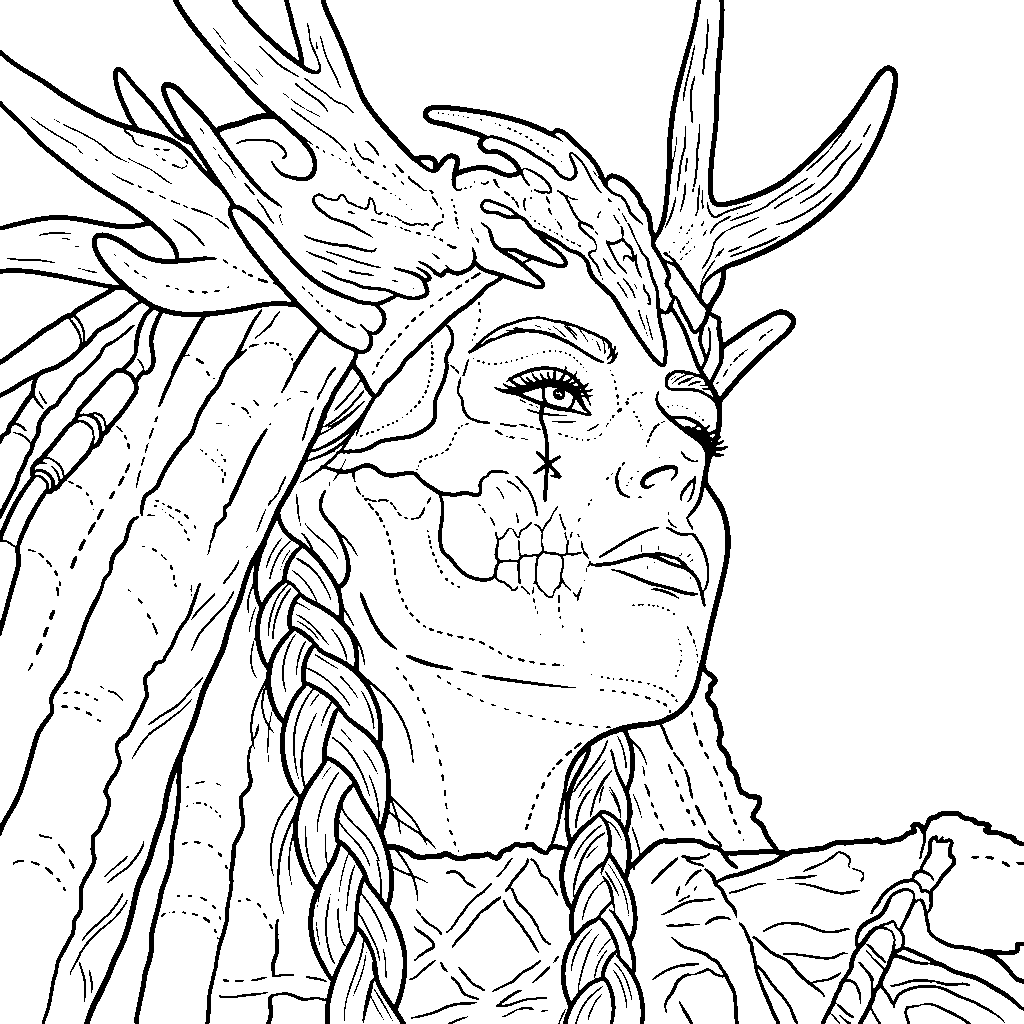
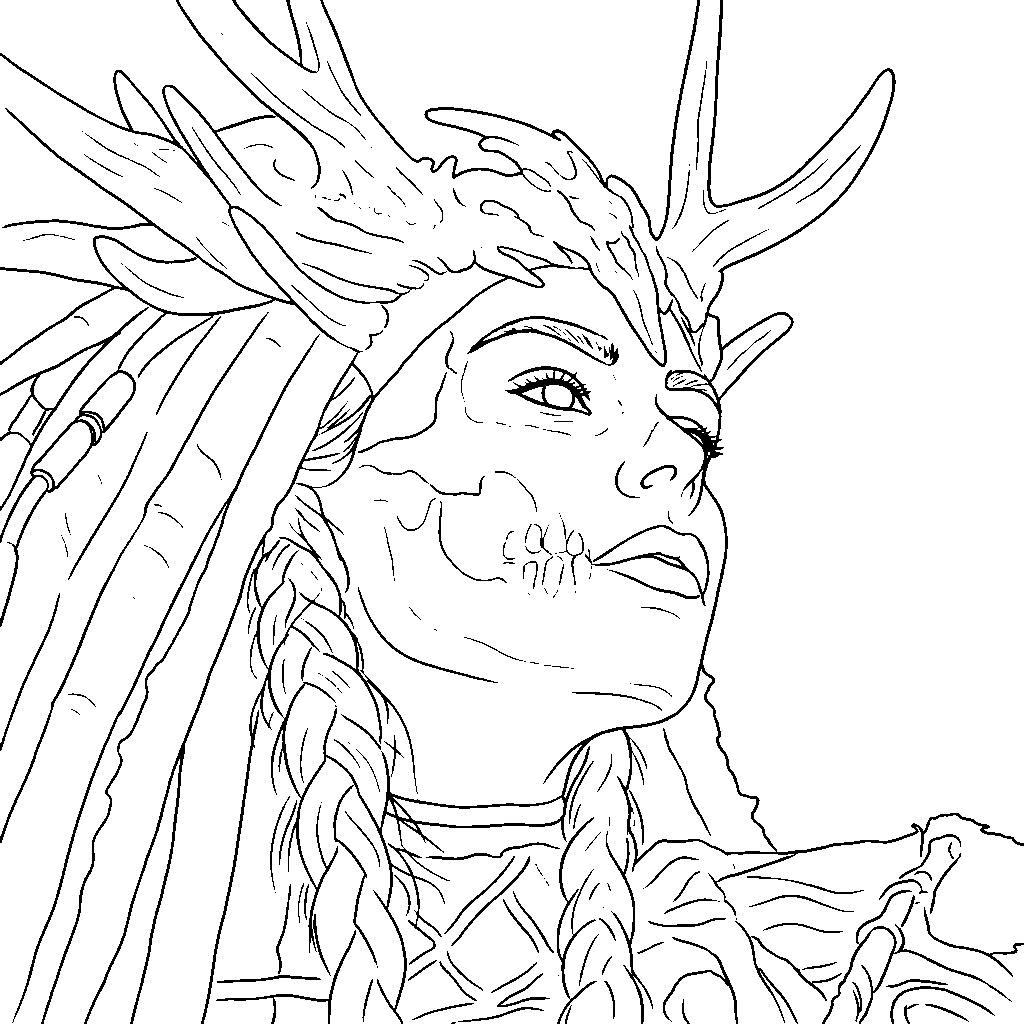
auto-commit for 8b0aaf1f-bcc7-4b05-b4d0-a28648d3bb02

diff --git a/backend/server.py b/backend/server.py
@@ -2150,7 +2150,7 @@ CRITICAL REQUIREMENTS:
 
 DETAIL LEVEL: {detail_level.upper()}
 {
-"- Minimal detail (LOW FIDELITY — 'The Bones'): A clean line-drawing of the subject. Include ALL main outlines of every element visibly present (face, eyes/nose/mouth, eyebrows, hair silhouette, braid outlines, crown/antlers, makeup patterns on the face). OMIT only interior texture lines (individual hair strands, fabric weave), dense shading dots, and light-to-dark contour guides. Think of it as the full line-art outline without any of the shading guides. ALL visible features of the subject must still be present — you are simplifying the shading, not the subject." if detail_level == "minimal" else
+"- Minimal detail (LOW FIDELITY — 'The Bones'): A clean, simple line-drawing of the subject. Include ALL main outlines of every element visibly present (face, eyes/nose/mouth, eyebrows, hair silhouette, braid outlines, crown/antlers, and the outlines of any face paint or makeup patterns on the skin). OMIT: individual hair strands, interior hair texture lines, fabric weave, ALL dotted/dashed shading guides (on the face, on the hair, anywhere), and all interior contour guides that describe tonal transitions. Low Fidelity should feel like the cleanest possible line-art outline of the subject — no shading of any kind. ALL visible features of the subject must still be present — you are simplifying the shading, not the subject." if detail_level == "minimal" else
 "- Moderate detail (MID-RANGE — 'Form & Shape'): Everything from Low Fidelity PLUS some key interior contour lines where they meaningfully help a tattoo artist see the form (major face plane breaks, jawline shading hints, nose bridge, main hair flow direction via a few flowing lines, key folds in clothing). Clean and uncluttered, but clearly MORE detailed than Low. NO dense shading dots, NO full hair texture, NO light-to-dark dotted transition guides — those belong to Heavy." if detail_level == "moderate" else
 "- Maximum detail (HIGH DEF — 'Full Detail'): Everything from Mid-Range PLUS full shading guides. Add ALL visible interior contours, AND dotted/dashed shading guides on every significant form (cheeks, jawline, brow ridges, nose bridge, lip volumes, collarbone, clothing folds, fabric wrinkles). When hair is present, read the FULL hair texture with MANY flowing directional lines across its entire form. Then, use DOTTED LINES to mark the hair's light-to-dark transitions — trace the boundary wherever a bright highlight region meets a darker shadow region in the hair (where light bounces off vs. where it falls into shadow). Treat these dotted lines like topographic contour lines that describe the tonal/lighting levels in the hair, showing the artist exactly where contrast shifts occur. Heavy must be visibly DENSER than Moderate with more individual marks and more interior contour detail — never less. CRITICAL: adding more detail does NOT mean re-interpreting the reference. The pose, framing, gaze direction, head tilt, hair style (braided/loose/etc.), face paint, makeup, crowns, and every other visible element must stay EXACTLY as they appear in the source. Every extra mark must describe something already present; do NOT swap braided dreads for loose hair, do NOT rotate the face to front-facing, do NOT soften or omit skull makeup because you're adding shading. Keep the same identity — just render it with more lines."
 }
@@ -2347,7 +2347,7 @@ CRITICAL REQUIREMENTS:
 
 DETAIL LEVEL: {detail_level.upper()}
 {
-"- Minimal detail (LOW FIDELITY — 'The Bones'): A clean line-drawing of the subject. Include ALL main outlines of every element visibly present (face, eyes/nose/mouth, eyebrows, hair silhouette, braid outlines, crown/antlers, makeup patterns on the face). OMIT only interior texture lines (individual hair strands, fabric weave), dense shading dots, and light-to-dark contour guides. Think of it as the full line-art outline without any of the shading guides. ALL visible features of the subject must still be present — you are simplifying the shading, not the subject." if detail_level == "minimal" else
+"- Minimal detail (LOW FIDELITY — 'The Bones'): A clean, simple line-drawing of the subject. Include ALL main outlines of every element visibly present (face, eyes/nose/mouth, eyebrows, hair silhouette, braid outlines, crown/antlers, and the outlines of any face paint or makeup patterns on the skin). OMIT: individual hair strands, interior hair texture lines, fabric weave, ALL dotted/dashed shading guides (on the face, on the hair, anywhere), and all interior contour guides that describe tonal transitions. Low Fidelity should feel like the cleanest possible line-art outline of the subject — no shading of any kind. ALL visible features of the subject must still be present — you are simplifying the shading, not the subject." if detail_level == "minimal" else
 "- Moderate detail (MID-RANGE — 'Form & Shape'): Everything from Low Fidelity PLUS some key interior contour lines where they meaningfully help a tattoo artist see the form (major face plane breaks, jawline shading hints, nose bridge, main hair flow direction via a few flowing lines, key folds in clothing). Clean and uncluttered, but clearly MORE detailed than Low. NO dense shading dots, NO full hair texture, NO light-to-dark dotted transition guides — those belong to Heavy." if detail_level == "moderate" else
 "- Maximum detail (HIGH DEF — 'Full Detail'): Everything from Mid-Range PLUS full shading guides. Add ALL visible interior contours, AND dotted/dashed shading guides on every significant form (cheeks, jawline, brow ridges, nose bridge, lip volumes, collarbone, clothing folds, fabric wrinkles). When hair is present, read the FULL hair texture with MANY flowing directional lines across its entire form. Then, use DOTTED LINES to mark the hair's light-to-dark transitions — trace the boundary wherever a bright highlight region meets a darker shadow region in the hair (where light bounces off vs. where it falls into shadow). Treat these dotted lines like topographic contour lines that describe the tonal/lighting levels in the hair, showing the artist exactly where contrast shifts occur. Heavy must be visibly DENSER than Moderate with more individual marks and more interior contour detail — never less. CRITICAL: adding more detail does NOT mean re-interpreting the reference. The pose, framing, gaze direction, head tilt, hair style (braided/loose/etc.), face paint, makeup, crowns, and every other visible element must stay EXACTLY as they appear in the source. Every extra mark must describe something already present; do NOT swap braided dreads for loose hair, do NOT rotate the face to front-facing, do NOT soften or omit skull makeup because you're adding shading. Keep the same identity — just render it with more lines."
 }
